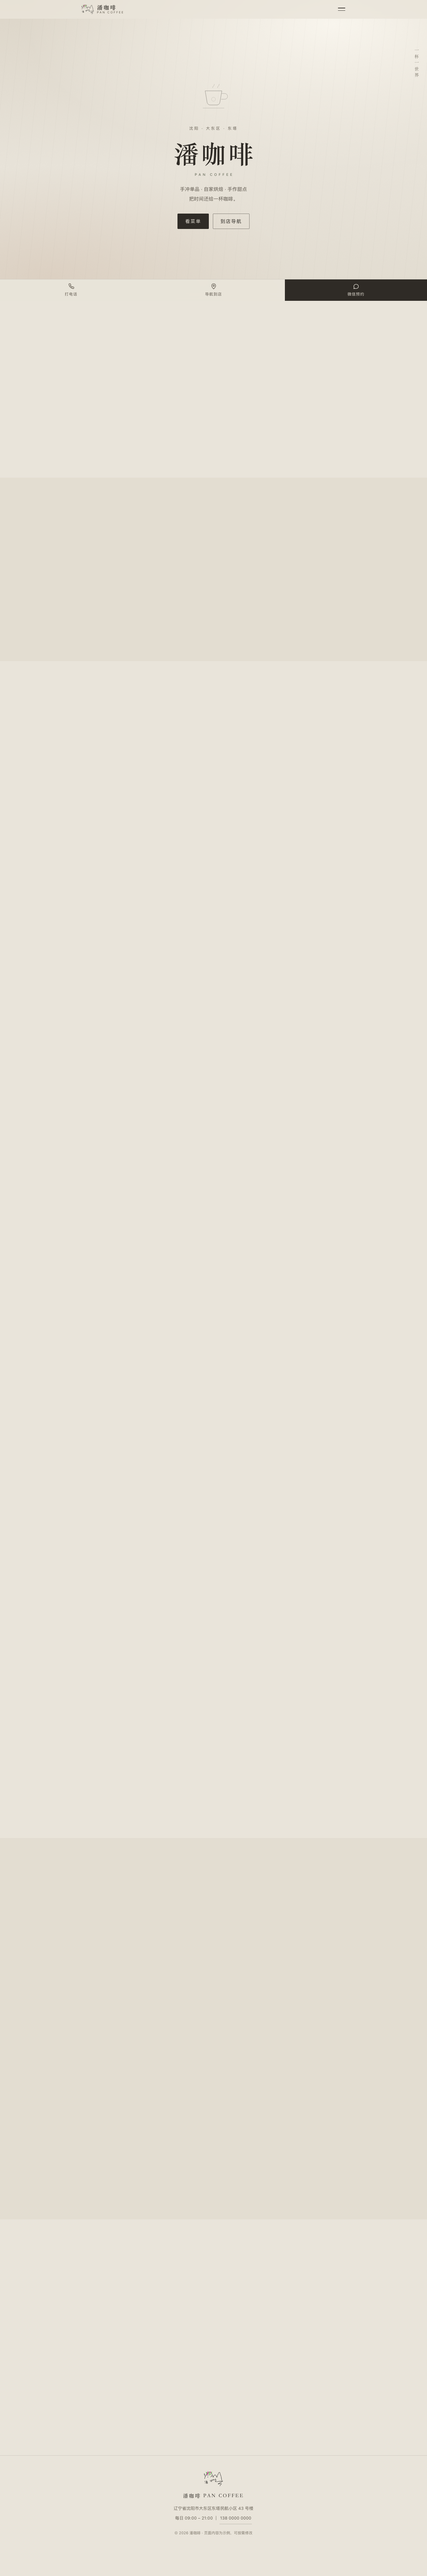
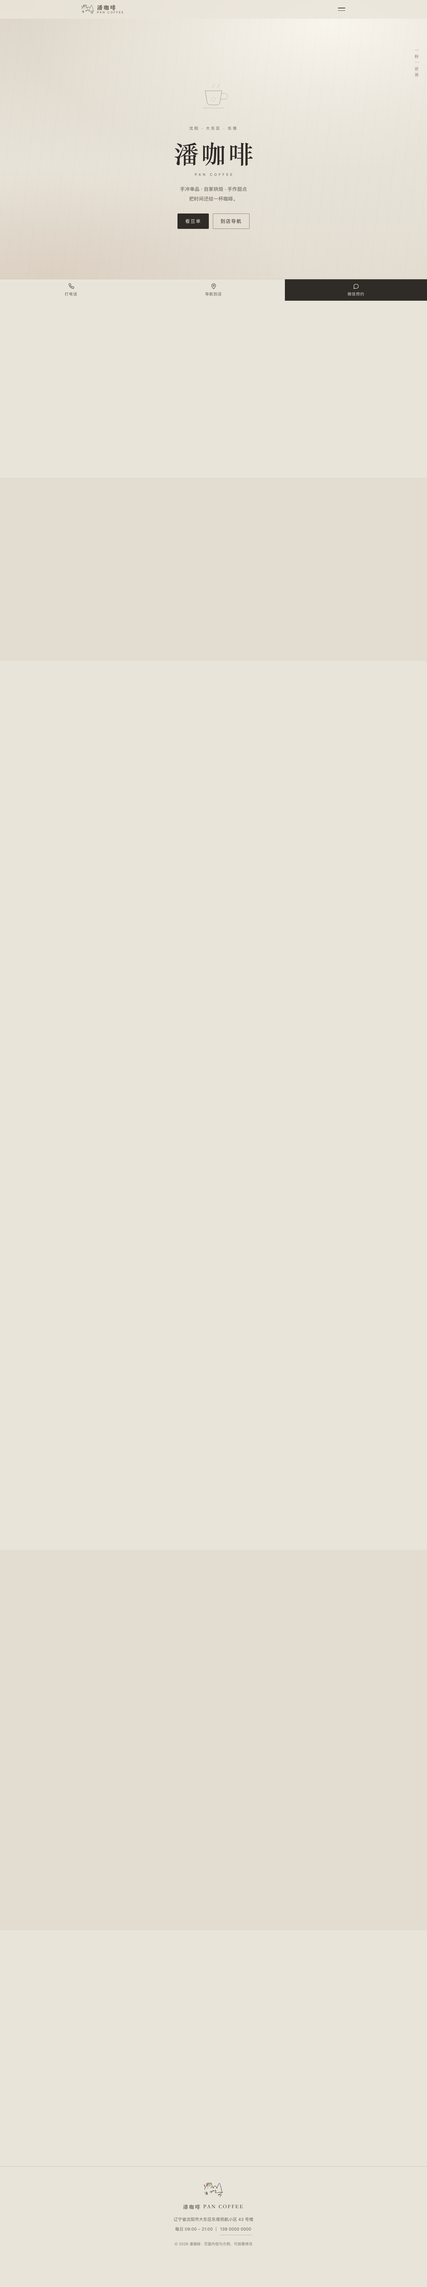
临时隐藏「菜单与价格」区块
- 整段用 HTML 注释包裹（内容完整保留，可随时恢复），恢复步骤写在注释内与 README
- 序号顺延：合作豆单 叁、到店信息 肆、店内一角 伍
- 抽屉目录移除「菜单与价格」并顺延；首屏主按钮改指「看豆单」(#beans)，避免死锚点
- 隐藏后 DOM 中不再存在 #menu，已验证无悬空锚点、无控制台错误

Changed region(s): [[0.6562, 0.0934, 1.0, 0.1556], [0.4062, 0.0311, 0.5938, 0.1245], [0.4062, 0.9646, 0.5938, 0.9958]]

diff --git a/index.html b/index.html
@@ -61,10 +61,9 @@
     <ul class="drawer__list">
       <li><a href="#about"><span>壹</span>关于潘咖啡</a></li>
       <li><a href="#signature"><span>贰</span>招牌推荐</a></li>
-      <li><a href="#menu"><span>叁</span>菜单与价格</a></li>
-      <li><a href="#beans"><span>肆</span>潘咖啡合作豆单</a></li>
-      <li><a href="#store"><span>伍</span>到店信息</a></li>
-      <li><a href="#gallery"><span>陆</span>店内一角</a></li>
+      <li><a href="#beans"><span>叁</span>潘咖啡合作豆单</a></li>
+      <li><a href="#store"><span>肆</span>到店信息</a></li>
+      <li><a href="#gallery"><span>伍</span>店内一角</a></li>
     </ul>
     <div class="drawer__foot">
       <p>沈阳市大东区东塔民航小区 43 号楼</p>
@@ -97,7 +96,7 @@
       <p class="hero__latin">PAN&nbsp;COFFEE</p>
       <p class="hero__lead">手冲单品 · 自家烘焙 · 手作甜点<br>把时间还给一杯咖啡。</p>
       <div class="hero__actions">
-        <a class="btn btn--solid" href="#menu">看菜单</a>
+        <a class="btn btn--solid" href="#beans">看豆单</a>
         <a class="btn btn--ghost" href="#store">到店导航</a>
       </div>
     </div>
@@ -200,7 +199,12 @@
     </ul>
   </section>
 
-  <!-- ============ 菜单 ============ -->
+  <!-- ▸▸ 菜单与价格：临时隐藏 ▸▸ 恢复方法见 README「临时隐藏的内容」一节
+       ① 删掉本行与末尾「临时隐藏结束」那一行注释标记
+       ② 把豆单 / 到店信息 / 店内一角的序号改回 肆 / 伍 / 陆
+       ③ 首屏主按钮改回 href="#menu"、文字「看菜单」
+       ④ 抽屉目录加回「叁 菜单与价格」，后面三项序号顺延回 肆 / 伍 / 陆
+
   <section class="section" id="menu">
     <header class="section__head" data-reveal>
       <p class="section__num">叁</p>
@@ -259,10 +263,12 @@
     <p class="menu__foot" data-reveal>自带杯立减 ¥3 ｜ 堂食不限时，提供白水与 WiFi</p>
   </section>
 
+  ▸▸ 菜单与价格：临时隐藏结束 ▸▸ -->
+
   <!-- ============ 合作豆单 ============ -->
   <section class="section" id="beans">
     <header class="section__head" data-reveal>
-      <p class="section__num">肆</p>
+      <p class="section__num">叁</p>
       <h2 class="section__title">潘咖啡合作豆单</h2>
       <p class="section__note">整袋价格 · 分 454g 与 200g 两种规格</p>
     </header>
@@ -404,7 +410,7 @@
   <!-- ============ 到店信息 ============ -->
   <section class="section section--tint" id="store">
     <header class="section__head" data-reveal>
-      <p class="section__num">伍</p>
+      <p class="section__num">肆</p>
       <h2 class="section__title">到店信息</h2>
     </header>
 
@@ -456,7 +462,7 @@
   <!-- ============ 店内一角 ============ -->
   <section class="section" id="gallery">
     <header class="section__head" data-reveal>
-      <p class="section__num">陆</p>
+      <p class="section__num">伍</p>
       <h2 class="section__title">店内一角</h2>
       <p class="section__note">实拍照片可替换此处的占位图</p>
     </header>
